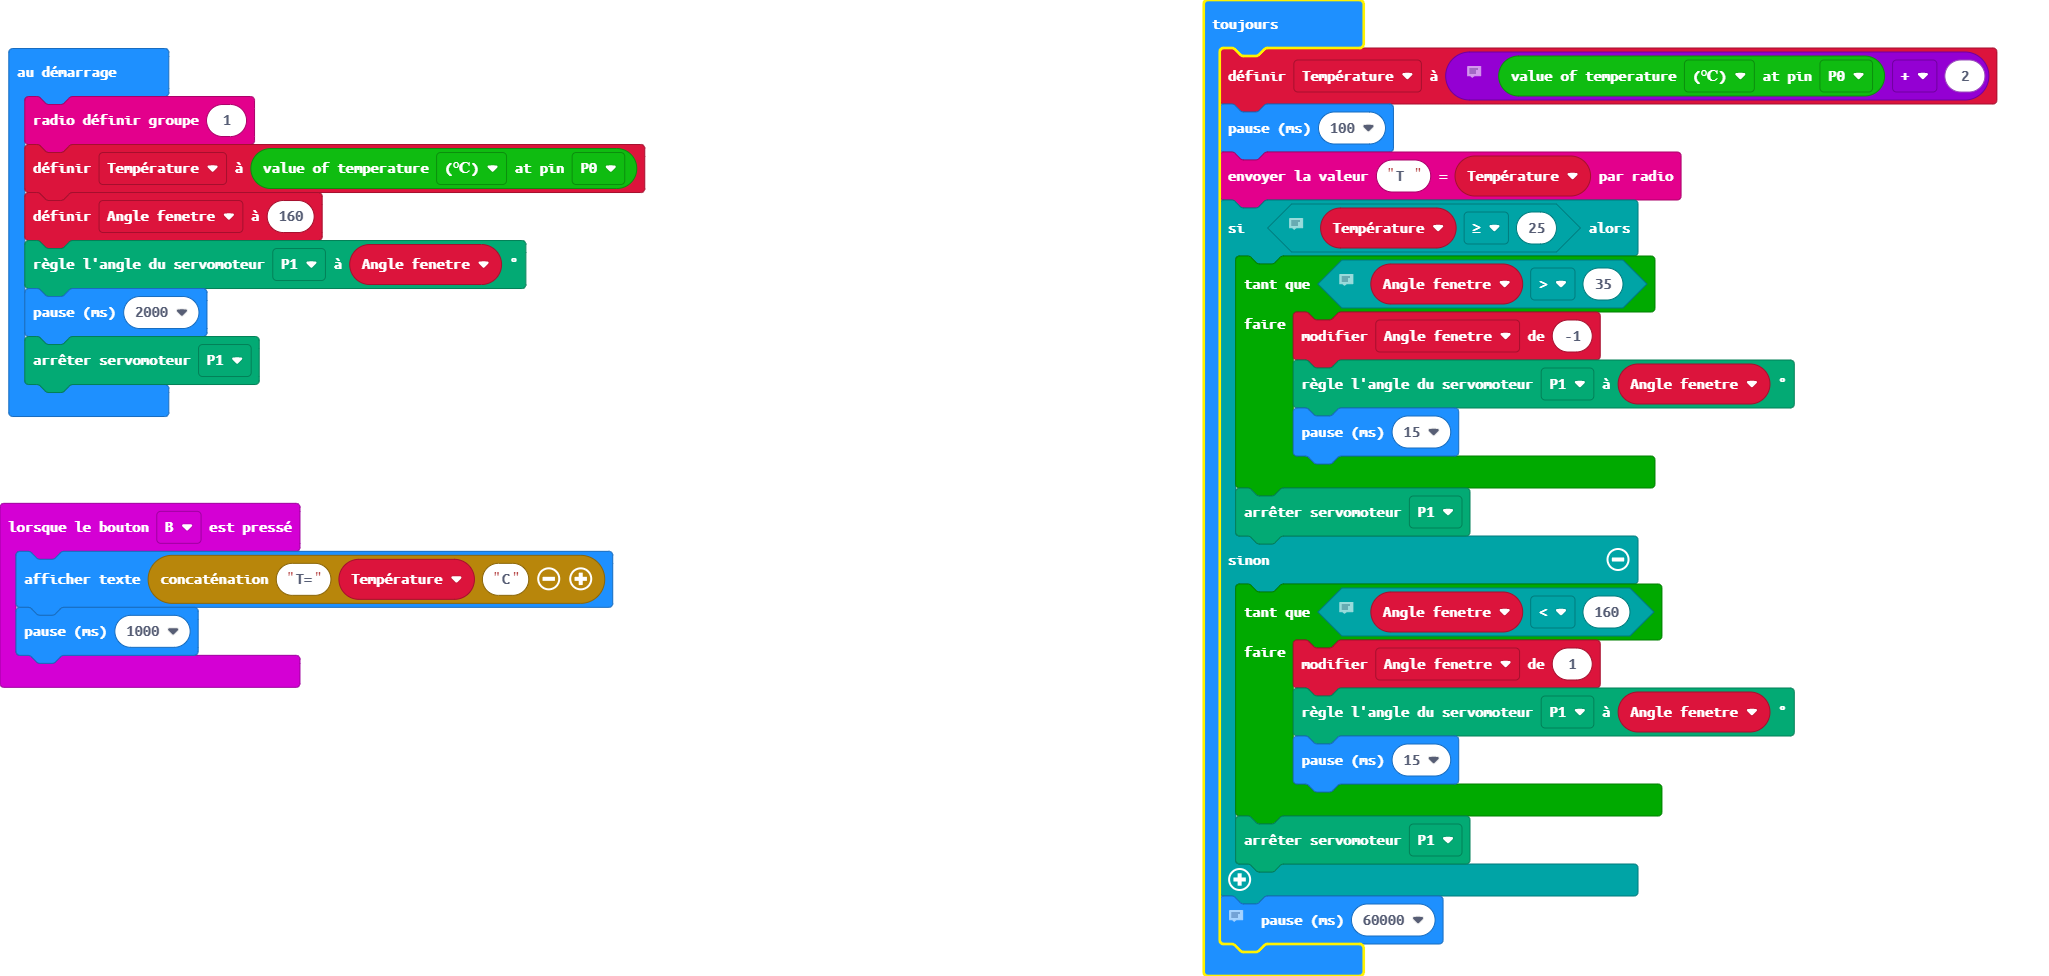
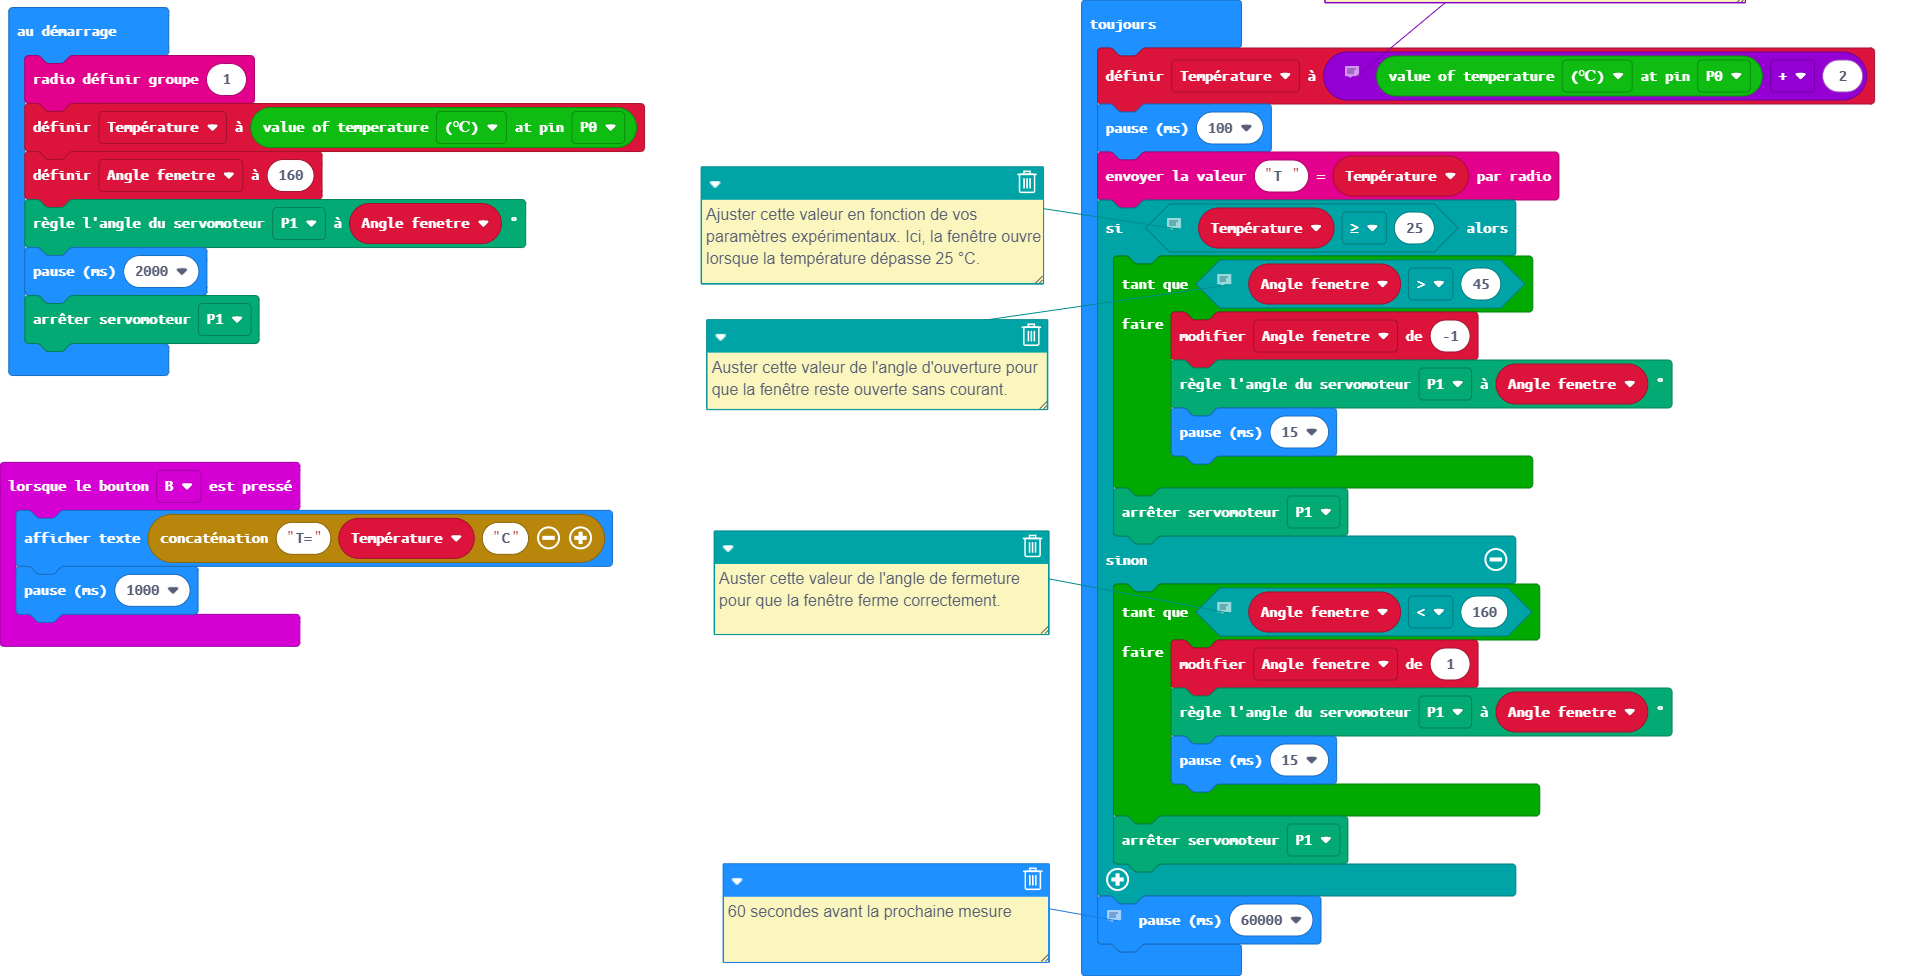
Mise à jour main.blocks, main.ts

diff --git a/main.ts b/main.ts
@@ -14,10 +14,10 @@ basic.forever(function () {
     Température = smarthome.ReadTemperature(TMP36Type.TMP36_temperature_C, AnalogPin.P0) + 2
     basic.pause(100)
     radio.sendValue("T ", Température)
-    // Ajuster cette valeur en fonction de vos paramètres expérimentaux
+    // Ajuster cette valeur en fonction de vos paramètres expérimentaux. Ici, la fenêtre ouvre lorsque la température dépasse 25 °C.
     if (Température >= 25) {
         // Auster cette valeur de l'angle d'ouverture pour que la fenêtre reste ouverte sans courant.
-        while (Angle_fenetre > 35) {
+        while (Angle_fenetre > 45) {
             Angle_fenetre += -1
             servos.P1.setAngle(Angle_fenetre)
             basic.pause(15)
